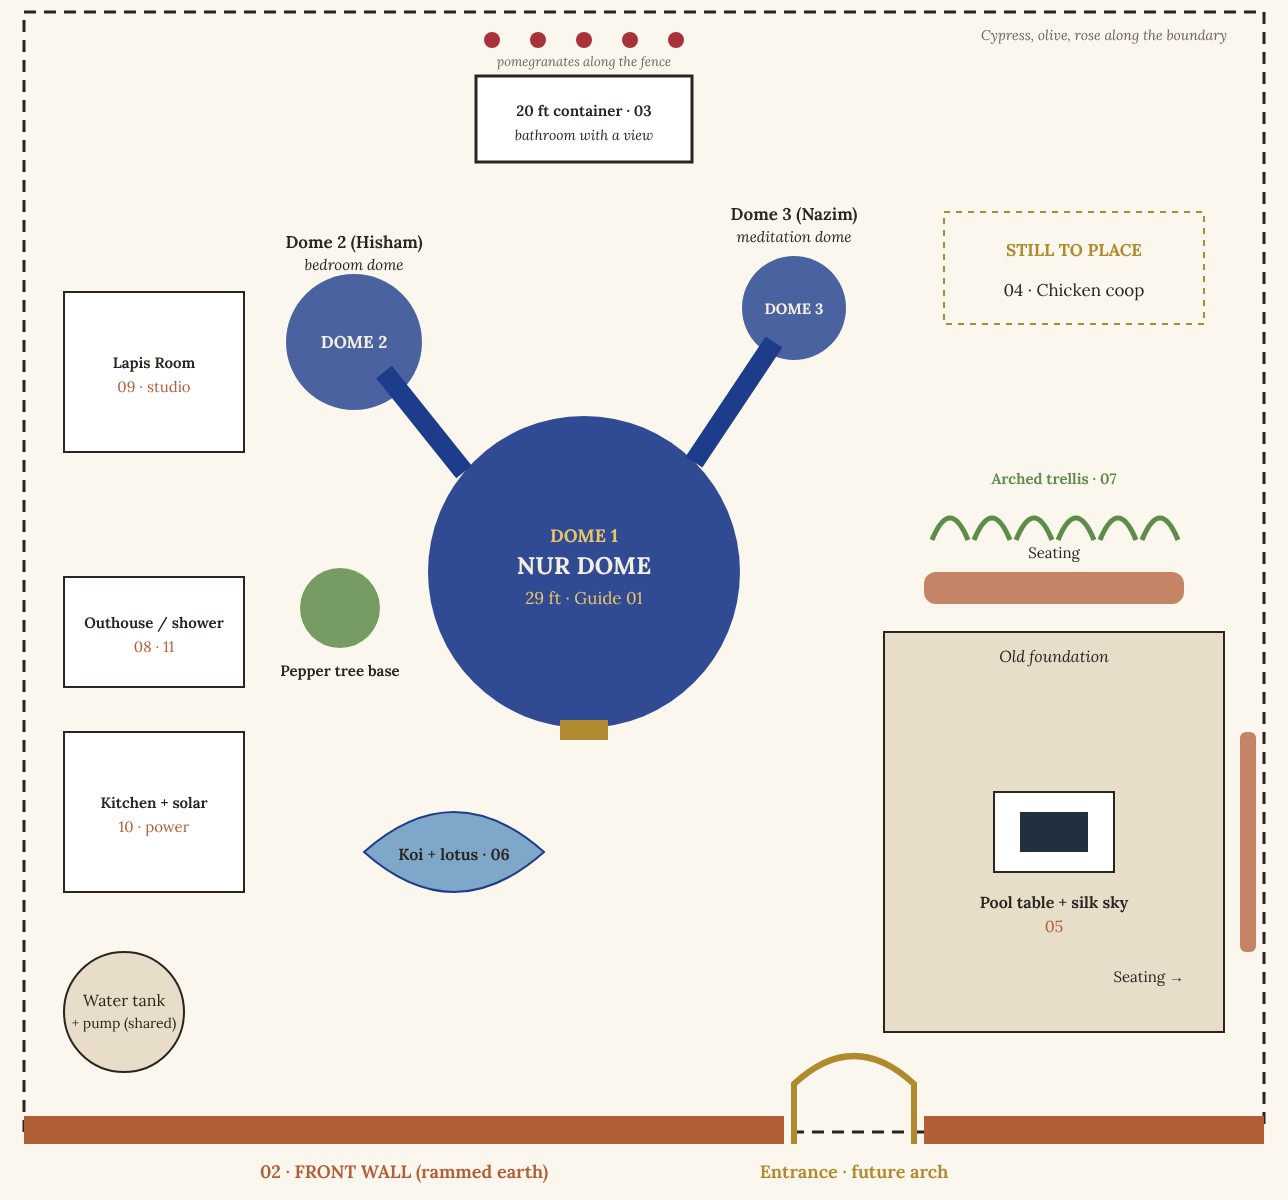
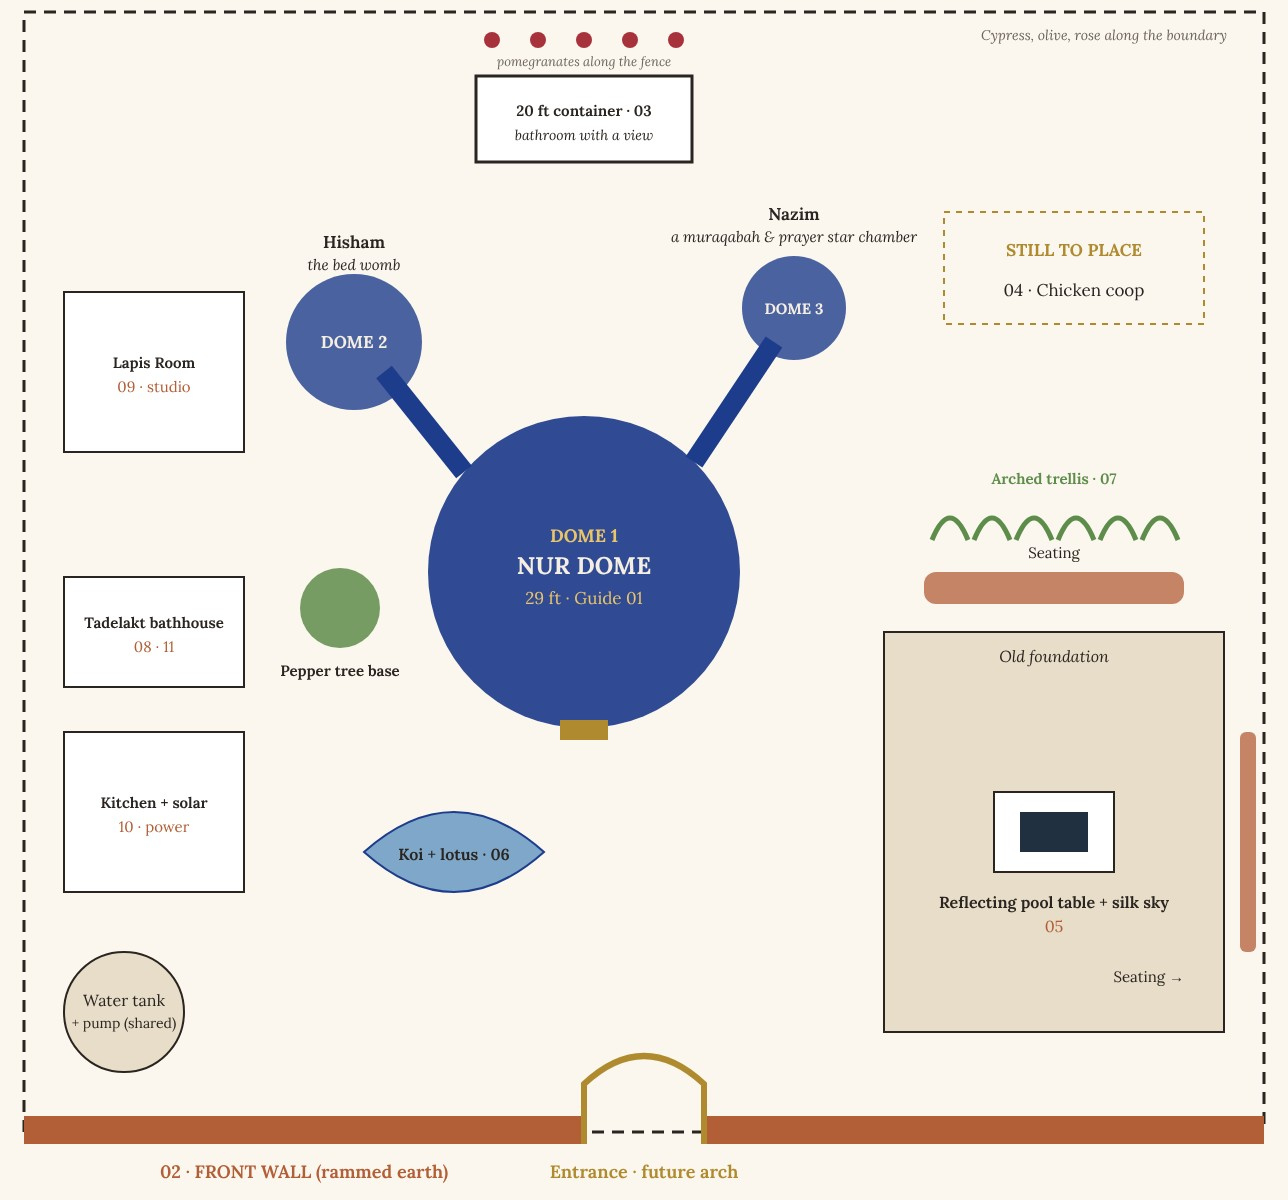
See the Levels; land plan: centred entrance, Hisham and Nazim named, reflecting pool table, tadelakt bathhouse
Claude-Session: https://claude.ai/code/session_01KpGSBg3VtFGsUZdtHJgoEc

diff --git a/index.html b/index.html
@@ -243,7 +243,7 @@ footer { align-items:flex-end;  padding:56px 0 64px; font-size:10px; display:fle
     </div>
     <p class="promise">Astralab 1.0 closed its doors in the Granada Buildings with one final gathering: half our belongings in suitcases, gratitude overflowing, and a promise made that night for what would come next. A place for artists to be, away from the city, closer to the earth. This is that promise.</p>
     <div class="next-mini" id="next-mini"></div>
-    <a class="btn" href="timeline.html#campaign">See the campaign</a><a class="btn ghost" href="archive.html">Read the first vision</a>
+    <a class="btn" href="timeline.html#campaign">See the Levels</a><a class="btn ghost" href="archive.html">Read the first vision</a>
   </div>
 </section>
 
